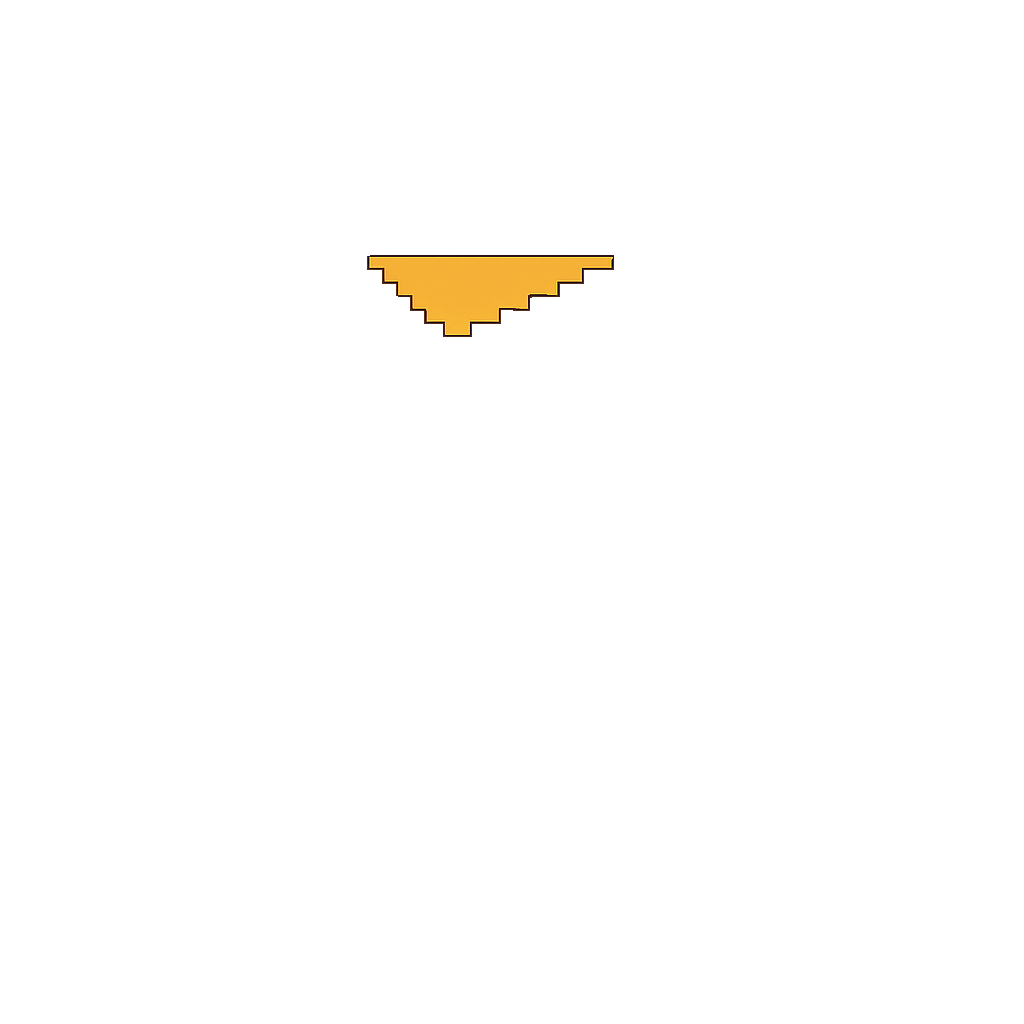
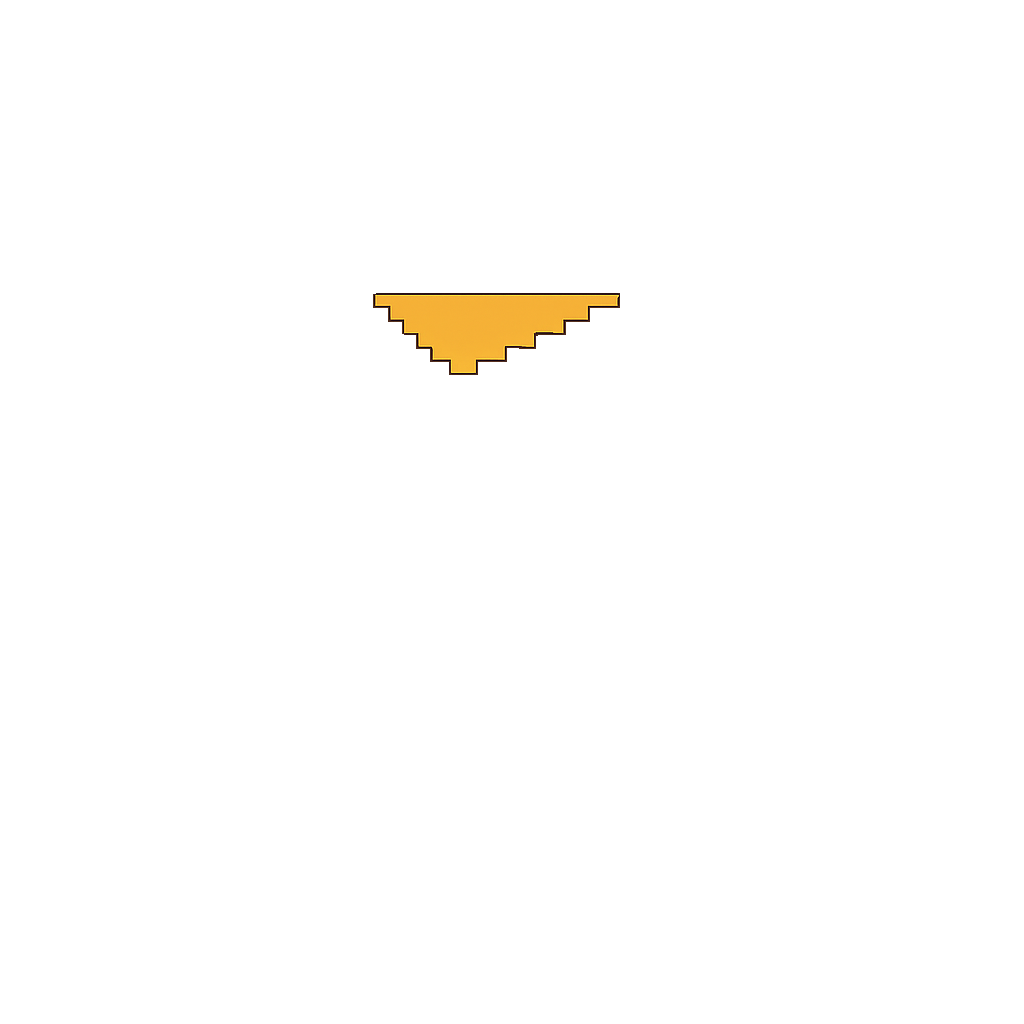
burger stacking

Changed region(s): [[0.3438, 0.25, 0.625, 0.375]]

diff --git a/Scene1.cpp b/Scene1.cpp
@@ -40,6 +40,7 @@ void Scene1::HandleEvents(SDL_Event& event) {
         player.playerOrder.clear();
         player.enter = false;
     }
+
 }
 
 void Scene1::Update() {
@@ -48,6 +49,7 @@ void Scene1::Update() {
 
 void Scene1::Render(SDL_Renderer* renderer) {
     burgerShop->Render(0, 0, 1080, 720);
+
     if (player.playerOrder.size() > 0) {
         VectorToImage();
     }
@@ -55,38 +57,56 @@ void Scene1::Render(SDL_Renderer* renderer) {
 
 void Scene1::VectorToImage()
 {
+    int currentY = player.firstIng;
+
+   
+
     for (int i = 0; i < player.playerOrder.size(); ++i) {
-        // Special handling for bun at the first index
-        if (player.playerOrder[i] == ingredients::ingredientsType::BUN) {
-            if (i == 0) {
-                bottomBun->Render(0, 200, 1080, 720);
+
+        int yPos = currentY - (i * 25);
+            // Special handling for bun at the first index
+            if (player.playerOrder[i] == ingredients::ingredientsType::BUN) {
+                if (i == 0) {
+                    bottomBun->Render(0, yPos, 1080, 720);
+                   
+                }
+                else {
+                    topBun->Render(0, yPos, 1080, 720);
+                    
+                }
             }
             else {
-                topBun->Render(0, 200, 1080, 720);
+
+                switch (player.playerOrder[i]) {
+                case ingredients::ingredientsType::TOMATO:
+                    
+                    tomato->Render(0, yPos, 1080, 720);
+                 
+                    break;
+                case ingredients::ingredientsType::LETTUCE:
+                    lettuce->Render(0, yPos, 1080, 720);
+                   
+                    break;
+                case ingredients::ingredientsType::CHEESE:
+                    cheese->Render(0, yPos, 1080, 720);
+                   
+                    break;
+                case ingredients::ingredientsType::KETCHUP:
+                    ketchup->Render(0, yPos, 1080, 720);
+                   
+                    break;
+                case ingredients::ingredientsType::RAWBURGER:
+                    rawBurger->Render(0, yPos, 1080, 720);
+                   
+                    break;
+                case ingredients::ingredientsType::COOKEDBURGER:
+                    cookedBurger->Render(0, yPos, 1080, 720);
+                  
+                    break;
+                }
             }
-        }
-        else {
-           
-            switch (player.playerOrder[i]) {
-            case ingredients::ingredientsType::TOMATO:
-                tomato->Render(0, 0, 1080, 720);
-                break;
-            case ingredients::ingredientsType::LETTUCE:
-                lettuce->Render(0, 0, 1080, 720);
-                break;
-            case ingredients::ingredientsType::CHEESE:
-                cheese->Render(0, 0, 1080, 720);
-                break;
-            case ingredients::ingredientsType::KETCHUP:
-                ketchup->Render(0, 0, 1080, 720);
-                break;
-            case ingredients::ingredientsType::RAWBURGER:
-                rawBurger->Render(0, 0, 1080, 720);
-                break;
-            case ingredients::ingredientsType::COOKEDBURGER:
-                cookedBurger->Render(0, 0, 1080, 720);
-                break;
-            }
-        }
+            
+          
+        
     }
 }

diff --git a/Player.cpp b/Player.cpp
@@ -3,7 +3,7 @@
 #include <iostream>
 #include "Customer.h"
 #include "ingredients.h"
-
+#include "Scene1.h"
 
 bool Player::PlaceOrder(SDL_Event& event)
 {
@@ -20,6 +20,7 @@ bool Player::PlaceOrder(SDL_Event& event)
         case SDLK_b:
             playerOrder.push_back(ingredients::ingredientsType::RAWBURGER);
             printf("RAW BURGER ");
+           
             break;
         case SDLK_l:
             playerOrder.push_back(ingredients::ingredientsType::LETTUCE);

diff --git a/Scene1.h b/Scene1.h
@@ -10,12 +10,14 @@ class Scene1 : public Scene {
 public:
     Scene1(SDL_Renderer* renderer);
     ~Scene1();
-
+   
     void HandleEvents(SDL_Event& event) override;
     void Update() override;
     void Render(SDL_Renderer* renderer) override;
     void VectorToImage();
 private:
+    bool reset = true;
+  
     ImageRenderer* burgerShop;
     ImageRenderer* topBun;
     ImageRenderer* lettuce;

diff --git a/Player.h b/Player.h
@@ -6,7 +6,10 @@
 
 class Player
 {
+	
+
 public:
+	int firstIng = 400;
 	bool quit;
 	bool enter;
 	std::vector<ingredients::ingredientsType> playerOrder;
